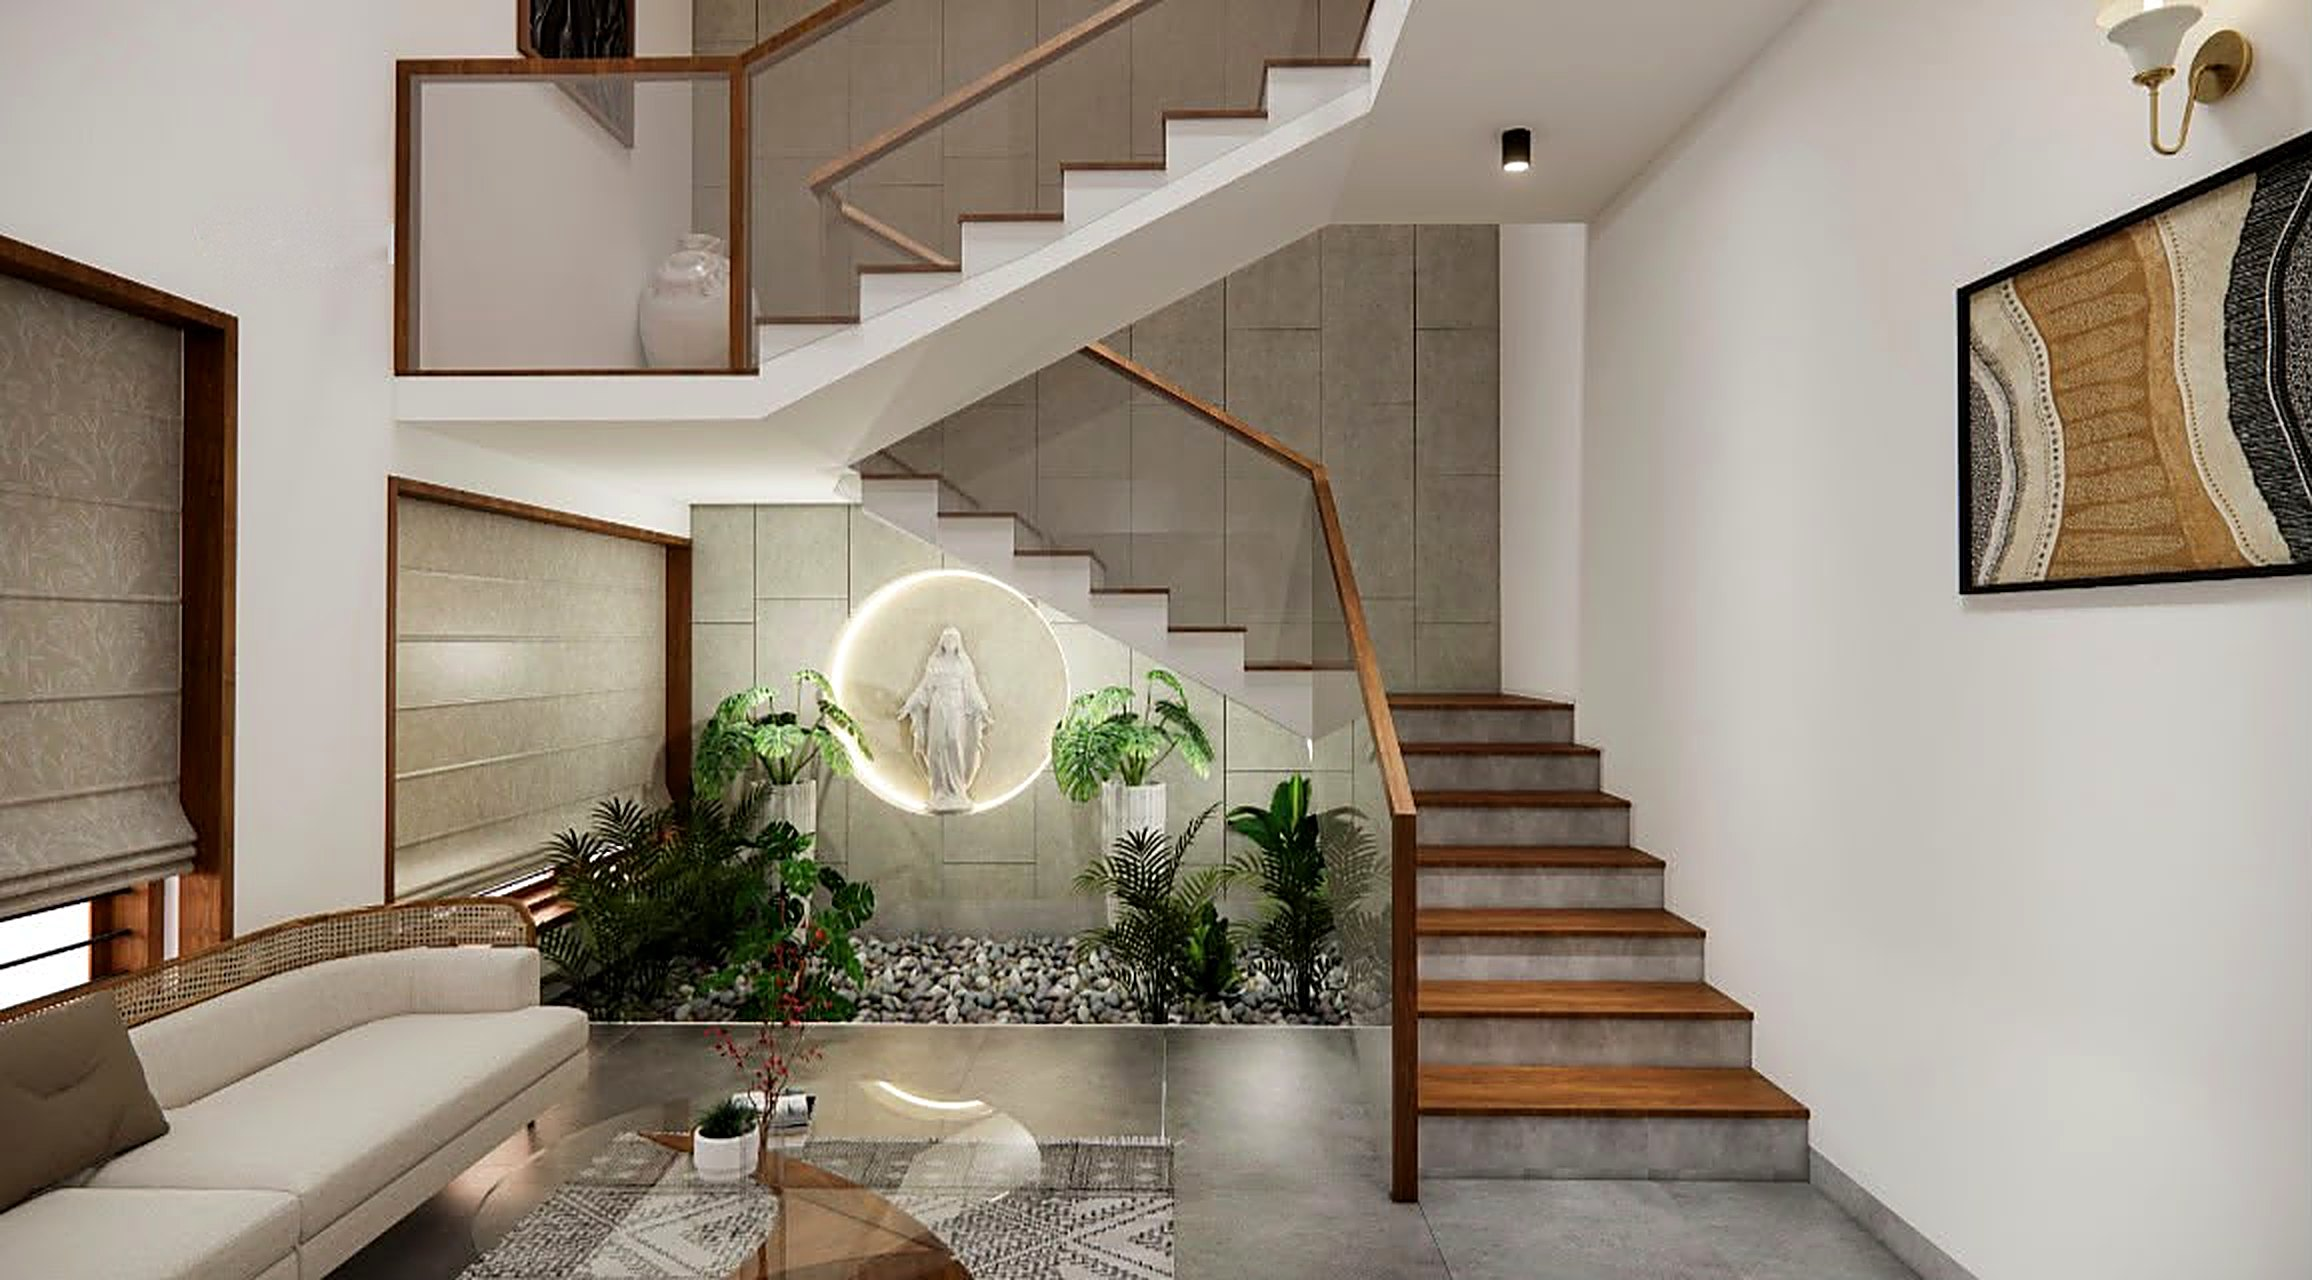
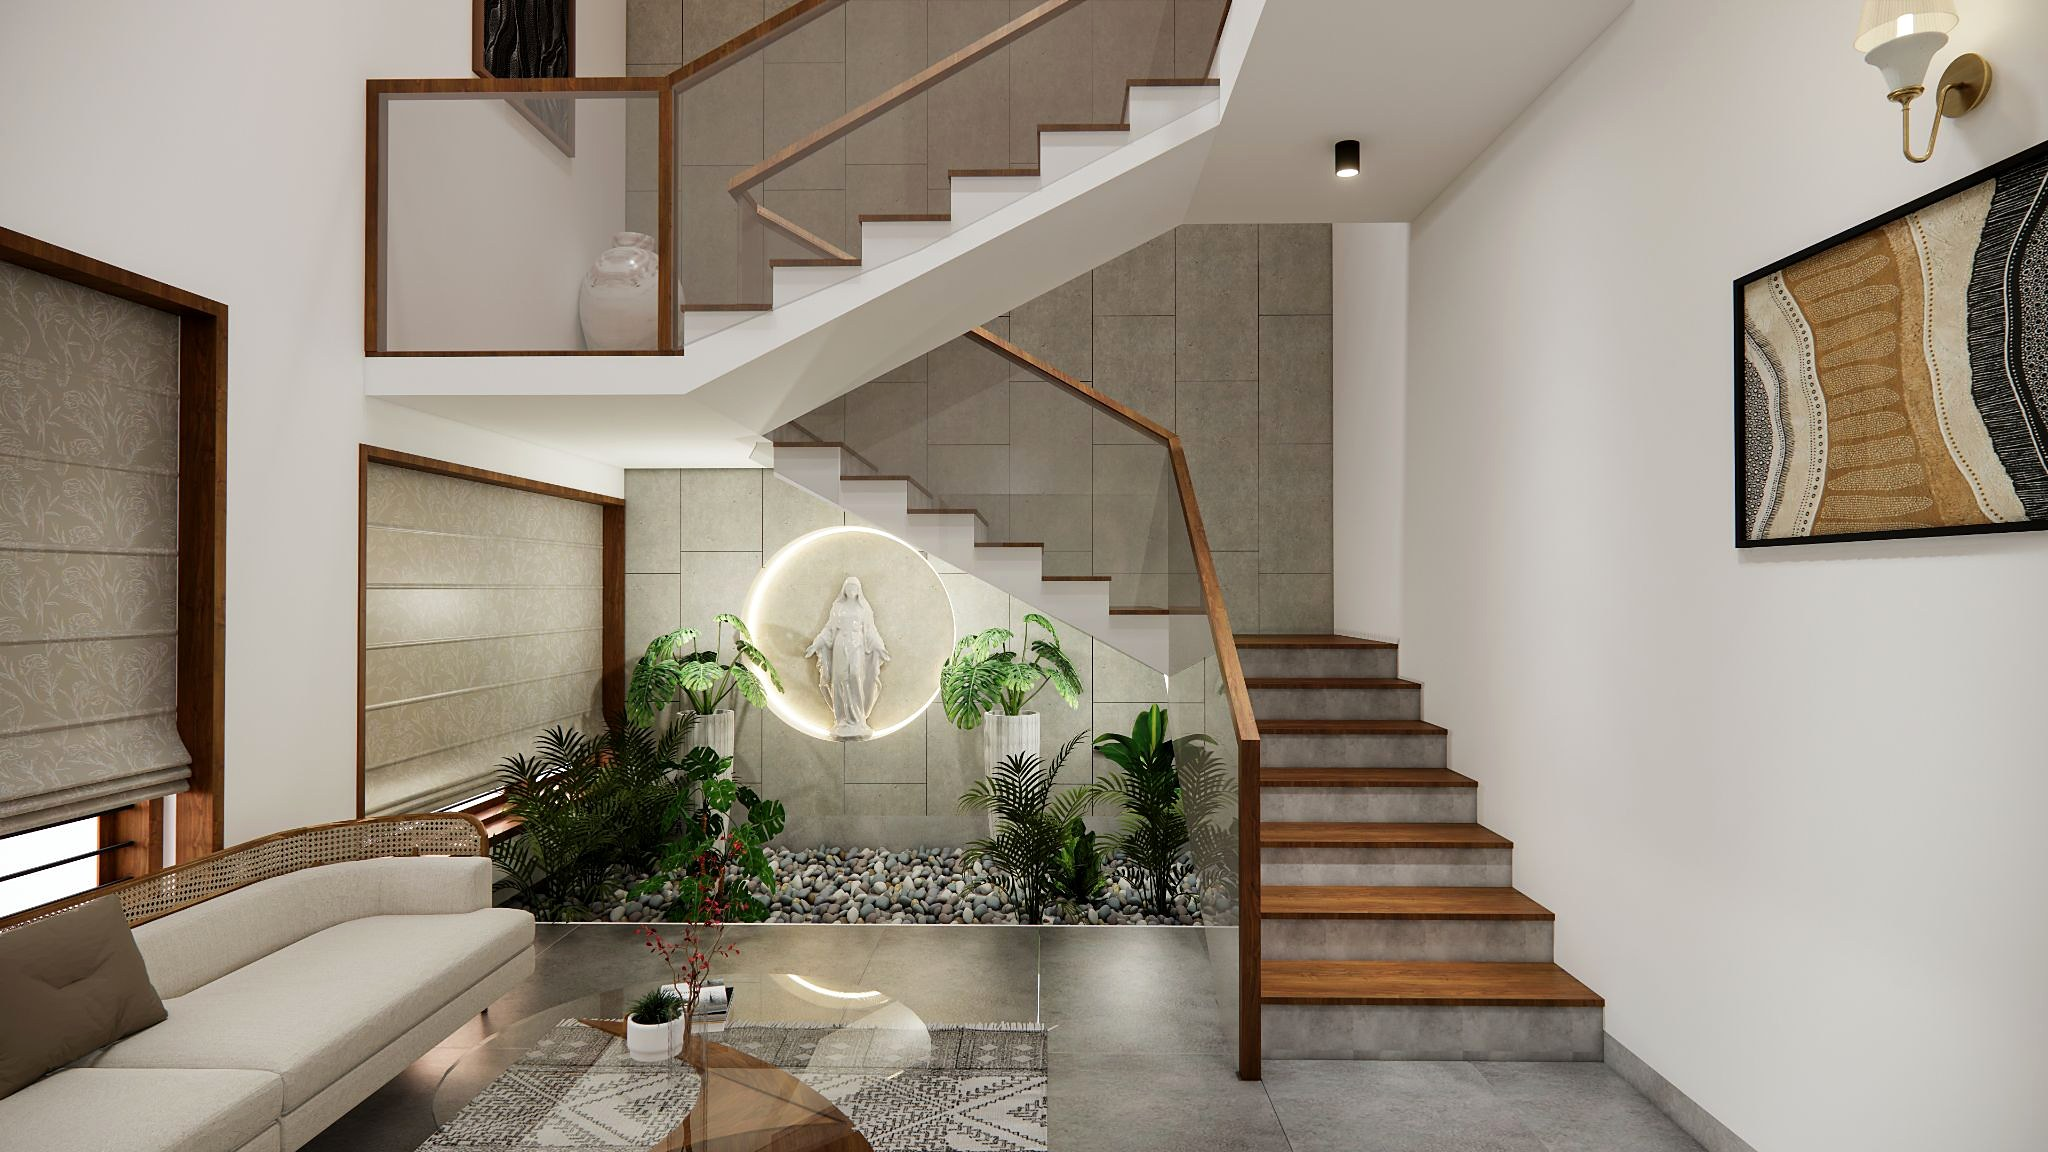
Full-quality interior render and tighter spacing
Use the original 2048px staircase render from the interior designer's PDF,
cut the blank cream fade (family section now slides up over the room) and
reduce padding between sections.

diff --git a/index.html b/index.html
@@ -36,7 +36,7 @@
   img{display:block;max-width:100%}
 
   /* ---------- HERO STAGE ---------- */
-  #stage{position:relative;height:380vh;background:var(--night)}
+  #stage{position:relative;height:310vh;background:var(--night)}
   .hero-text.settled{transition:none}
   .sticky{position:sticky;top:0;height:100vh;height:100svh;overflow:hidden;background:
       radial-gradient(120% 90% at 50% 110%, #1b3a5c 0%, var(--night) 60%)}
@@ -108,16 +108,18 @@
   .built .skip{opacity:0;pointer-events:none}
 
   /* ---------- CONTENT ---------- */
-  section.page{position:relative;padding:clamp(72px,11vw,140px) 16px}
+  section.page{position:relative;padding:clamp(44px,6vw,80px) 16px}
+  #family{padding-top:clamp(36px,4vw,56px);z-index:2;margin-top:-32px;background:var(--cream);
+    border-radius:28px 28px 0 0;box-shadow:0 -22px 44px -24px rgba(20,12,6,.55)}
   .wrap{max-width:1120px;margin:0 auto}
-  .reveal{opacity:0;transform:translateY(40px);transition:opacity 1.1s ease,transform 1.1s cubic-bezier(.2,.8,.2,1)}
+  .reveal{opacity:0;transform:translateY(22px);transition:opacity .8s ease,transform .8s cubic-bezier(.2,.8,.2,1)}
   .reveal.in{opacity:1;transform:none}
 
-  .lamp{display:block;margin:0 auto 18px;width:56px;height:auto}
+  .lamp{display:block;margin:0 auto 12px;width:50px;height:auto}
   .flame{transform-origin:28px 22px;animation:flicker 2.4s ease-in-out infinite}
   @keyframes flicker{0%,100%{transform:scale(1,1) rotate(0)}25%{transform:scale(.94,1.06) rotate(-2deg)}50%{transform:scale(1.04,.96) rotate(1.5deg)}75%{transform:scale(.97,1.04) rotate(-1deg)}}
 
-  .family{display:grid;grid-template-columns:1.15fr .85fr;gap:clamp(32px,5vw,72px);align-items:center}
+  .family{display:grid;grid-template-columns:1.15fr .85fr;gap:clamp(24px,4vw,56px);align-items:center}
   .frame{position:relative;perspective:1200px}
   .frame-inner{position:relative;border-radius:6px;padding:12px;background:#fffdf8;
     box-shadow:0 2px 0 var(--cream2),0 40px 80px -30px rgba(90,50,20,.45),0 12px 24px -12px rgba(90,50,20,.3);
@@ -130,17 +132,17 @@
   .tape{position:absolute;width:110px;height:28px;background:rgba(201,151,63,.28);top:-12px;left:50%;transform:translateX(-50%) rotate(-3deg);backdrop-filter:blur(1px)}
 
   .kicker{font:italic 500 clamp(15px,1.5vw,19px) var(--en);letter-spacing:.3em;text-transform:uppercase;color:var(--terra)}
-  h3.title{font:800 clamp(34px,4.6vw,58px)/1.25 var(--ml-head);margin:.25em 0 .35em;color:var(--ink)}
+  h3.title{font:800 clamp(32px,4.4vw,54px)/1.22 var(--ml-head);margin:.15em 0 .3em;color:var(--ink)}
   .invite p{font-size:clamp(18px,1.7vw,21px);line-height:1.85;color:#3d2e22}
   .invite p+p{margin-top:14px}
-  .sign{margin-top:26px;font:700 20px var(--ml-head);color:var(--teak)}
+  .sign{margin-top:18px;font:700 20px var(--ml-head);color:var(--teak)}
   .sign span{display:block;font:italic 500 17px var(--en);letter-spacing:.12em;color:var(--muted);margin-top:2px}
 
   .details{background:var(--leaf);color:#f6ecd9;overflow:hidden}
   .details::before{content:"";position:absolute;inset:0;opacity:.12;background:url(assets/house-blueprint.webp) center 80%/cover no-repeat;pointer-events:none}
   .details .kicker{color:#e8bf74;text-align:center;display:block}
   .details h3.title{color:#fff6e6;text-align:center}
-  .cards{display:grid;grid-template-columns:repeat(3,1fr);gap:20px;margin-top:40px}
+  .cards{display:grid;grid-template-columns:repeat(3,1fr);gap:16px;margin-top:24px}
   .card{position:relative;background:rgba(255,248,236,.06);border:1px solid rgba(232,191,116,.28);border-radius:18px;padding:30px 24px;text-align:center;backdrop-filter:blur(4px)}
   .card svg{width:34px;height:34px;color:#e8bf74;margin:0 auto 14px;display:block}
   .card .lbl{font:italic 500 15px var(--en);letter-spacing:.25em;text-transform:uppercase;color:#e8bf74}
@@ -148,11 +150,11 @@
   .card .sub{font-size:17px;opacity:.85}
   .reveal.d1{transition-delay:.12s}.reveal.d2{transition-delay:.24s}.reveal.d3{transition-delay:.36s}
 
-  .countdown{display:flex;justify-content:center;gap:clamp(10px,2.5vw,28px);margin-top:54px}
+  .countdown{display:flex;justify-content:center;gap:clamp(10px,2.5vw,28px);margin-top:32px}
   .cd{min-width:clamp(68px,10vw,104px);text-align:center}
   .cd b{display:block;font:600 clamp(38px,5.5vw,68px)/1 var(--en);font-variant-numeric:tabular-nums;color:#fff6e6}
   .cd span{display:block;margin-top:8px;font-size:15px;opacity:.75}
-  .actions{display:flex;justify-content:center;flex-wrap:wrap;gap:14px;margin-top:46px}
+  .actions{display:flex;justify-content:center;flex-wrap:wrap;gap:12px;margin-top:28px}
   .btn{display:inline-flex;align-items:center;gap:10px;padding:14px 24px;border-radius:99px;font:700 17px var(--ml-body);text-decoration:none;cursor:pointer;border:0;transition:transform .2s,box-shadow .2s,background .2s}
   .btn svg{width:20px;height:20px}
   .btn.primary{background:#e8bf74;color:#2a1f17;box-shadow:0 10px 30px -10px rgba(232,191,116,.7)}
@@ -160,10 +162,10 @@
   .btn:hover{transform:translateY(-2px)}
   .btn:focus-visible{outline:3px solid #fff6e6;outline-offset:3px}
 
-  footer{background:var(--cream);text-align:center;padding:clamp(72px,10vw,120px) 16px clamp(56px,8vw,90px)}
+  footer{background:var(--cream);text-align:center;padding:clamp(40px,6vw,72px) 16px clamp(36px,5vw,56px)}
   footer h4{font:700 clamp(26px,3.4vw,40px)/1.4 var(--ml-head);color:var(--ink);max-width:760px;margin:0 auto}
   footer p{margin-top:14px;font:italic 500 18px var(--en);letter-spacing:.16em;color:var(--muted);text-transform:uppercase}
-  .orn{width:160px;height:14px;margin:26px auto 0;color:var(--gold)}
+  .orn{width:160px;height:14px;margin:18px auto 0;color:var(--gold)}
 
   /* ---------- PHONE (portrait): title on top, house in the middle, hint at the bottom ---------- */
   .portrait .hero-text{top:0;bottom:0;display:flex;flex-direction:column;justify-content:space-between;
@@ -184,22 +186,23 @@
     .cards{grid-template-columns:1fr}
   }
   @media (max-width:600px){
-    section.page{padding:64px 20px}
+    section.page{padding:40px 20px}
+    #family{padding-top:32px;margin-top:-24px;border-radius:22px 22px 0 0}
     .frame-inner{padding:8px;transform:rotate(-.8deg)}
     .frame-inner::before{inset:-8px}
     .invite p{font-size:17.5px;line-height:1.8}
     .invite .lamp{width:44px}
-    .cards{gap:12px;margin-top:28px}
+    .cards{gap:10px;margin-top:18px}
     .card{display:grid;grid-template-columns:44px 1fr;column-gap:16px;align-items:center;text-align:left;padding:18px 20px}
     .card svg{grid-row:1 / 4;margin:0;width:30px;height:30px}
     .card .lbl{font-size:13px}
     .card .big{font-size:23px;margin:2px 0 0}
     .card .sub{font-size:16px}
-    .countdown{gap:6px;margin-top:40px}
+    .countdown{gap:6px;margin-top:26px}
     .cd{min-width:0;flex:1}
     .cd b{font-size:clamp(34px,11vw,46px)}
     .cd span{font-size:13px}
-    .actions{flex-direction:column;align-items:stretch;gap:12px;margin-top:36px}
+    .actions{flex-direction:column;align-items:stretch;gap:10px;margin-top:24px}
     .btn{justify-content:center;padding:16px 20px}
     footer h4{font-size:26px}
     footer p{font-size:15px}
@@ -477,16 +480,16 @@ const EVENT = {
     const w = ease(clamp01((p-.40)/.48));
     if (!reduce) insideImg.style.transform =
       `scale(${1.28 - .28*w}) translate3d(${-cx*10}px,${-cy*6}px,0)`;
-    const m = clamp01((p-.50)/.08) * (1 - clamp01((p-.84)/.06));
+    const m = clamp01((p-.50)/.07) * (1 - clamp01((p-.80)/.05));
     mid.style.opacity = m; mid.style.transform = `translateY(${(1-m)*20}px)`;
     // 4. soft fade to the invitation below
-    cream.style.opacity = clamp01((p-.88)/.11);
+    // 4. the invitation slides up over the room as a card (no blank fade)
     requestAnimationFrame(frame);
   }
   requestAnimationFrame(frame);
 
   /* ---- reveal on scroll ---- */
-  const io = new IntersectionObserver(es => es.forEach(e => { if (e.isIntersecting){ e.target.classList.add("in"); io.unobserve(e.target); } }), {threshold:.18});
+  const io = new IntersectionObserver(es => es.forEach(e => { if (e.isIntersecting){ e.target.classList.add("in"); io.unobserve(e.target); } }), {threshold:.05, rootMargin:"0px 0px -4% 0px"});
   document.querySelectorAll(".reveal").forEach(el => io.observe(el));
 
   /* ---- countdown ---- */
